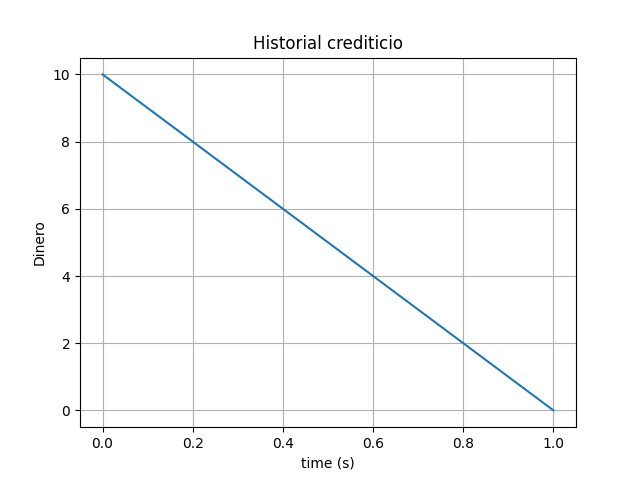
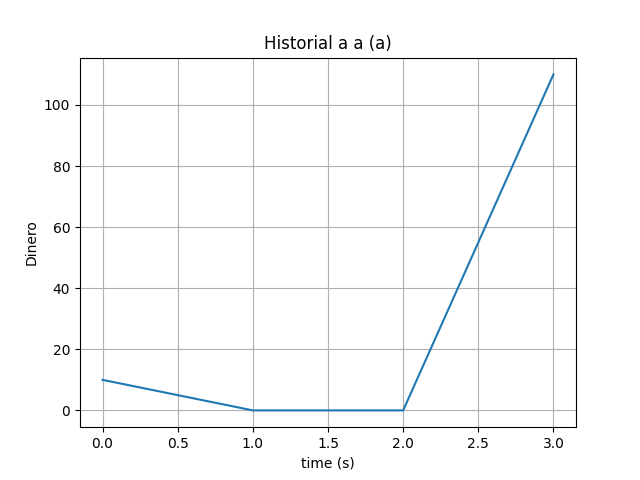
actualizado

diff --git a/menu.py b/menu.py
@@ -311,9 +311,25 @@ class Ui_MainWindow(object):
         self.verticalLayout_5.addWidget(self.label)
         self.stackedWidget.addWidget(self.page_dos)
 
+        self.page_tres = QtWidgets.QWidget()
+        self.page_tres.setObjectName("page_tres")
+        self.verticalLayout_6 = QtWidgets.QVBoxLayout(self.page_tres)
+        self.verticalLayout_6.setObjectName("verticalLayout_6")
+
+        self.label = QtWidgets.QLabel(self.page_tres)
+        self.label.setText("")
+        self.label.setPixmap(QtGui.QPixmap('Imagenes/hist_bal.png'))
+        self.label.setScaledContents(False)
+        self.label.setAlignment(QtCore.Qt.AlignCenter)
+        self.label.setIndent(0)
+        self.label.setObjectName("label")
+        self.verticalLayout_6.addWidget(self.label)
+        self.stackedWidget.addWidget(self.page_tres)
+
         self.pushButton_4 = QtWidgets.QPushButton(self.page_dos)
         self.pushButton_4.setStyleSheet("background-color: rgb(0, 220, 0);\n"
                                         "font: 87 36pt \"Arial Black\";")
+
         self.pushButton_4.setObjectName("pushButton_4")
         self.verticalLayout_5.addWidget(self.pushButton_4)
         self.stackedWidget.addWidget(self.page_dos)
@@ -325,7 +341,7 @@ class Ui_MainWindow(object):
 
         self.pushButton_3 = QtWidgets.QPushButton(self.page_tres)
         self.pushButton_3.setStyleSheet("background-color: rgb(255, 255, 0);\n"
-                                        "font: 87 36pt \"Arial Black\";")
+                                         "font: 87 36pt \"Arial Black\";")
 
         self.pushButton_3.setObjectName("pushButton_3")
         self.verticalLayout_6.addWidget(self.pushButton_3)
@@ -339,6 +355,7 @@ class Ui_MainWindow(object):
         self.pushButton_2 = QtWidgets.QPushButton(self.page_cuatro)
         self.pushButton_2.setStyleSheet("background-color: rgb(85, 255, 0);\n"
                                         "font: 87 36pt \"Arial Black\";")
+
         self.pushButton_2.setObjectName("pushButton_2")
         self.verticalLayout_7.addWidget(self.pushButton_2)
         self.stackedWidget.addWidget(self.page_cuatro)
@@ -350,6 +367,7 @@ class Ui_MainWindow(object):
         self.pushButton = QtWidgets.QPushButton(self.page_cinco)
         self.pushButton.setStyleSheet("background-color: rgb(0, 170, 255);\n"
                                       "font: 87 36pt \"Arial Black\";")
+
         self.pushButton.setObjectName("pushButton")
         self.verticalLayout_8.addWidget(self.pushButton)
         self.stackedWidget.addWidget(self.page_cinco)
@@ -373,7 +391,7 @@ class Ui_MainWindow(object):
         self.label_2.setText(_translate("MainWindow", "  Casino "))
         self.pushButton_5.setText(_translate("MainWindow", "JUGAR"))
         self.pushButton_4.setText(_translate("MainWindow", "JUGAR"))
-        self.pushButton_3.setText(_translate("MainWindow", "PERFIL"))
+        self.pushButton_3.setText(_translate("MainWindow", "INGRESAR +10"))
 
 
 

diff --git a/Grafica_balance.py b/Grafica_balance.py
@@ -2,12 +2,9 @@ import matplotlib.pyplot as plt
 import sqlite3
 
 
-# Este fichero se encarga de temas relacionados con el historial monetario
-
-# Creamos la clase que va a almacenar funciones y poder llamarlas desde otros ficheros
 class Grafica_balance:
 
-    # graficar_balance se ocupa de graficar un matplotlib a partir de un DNI
+    # graficarbalance se ocupa de graficar un matplotlib a partir de un DNI
     @staticmethod
     def graficar_balance(dni):
         # Coge la base de datos
@@ -28,18 +25,21 @@ class Grafica_balance:
         fig, ax = plt.subplots()
         ax.plot(lista_aux, a)
 
+        conn = sqlite3.connect('usuarios.db')
+        cursor = conn.cursor()
+        cursor.execute('SELECT nombre, apellidos FROM usuarios WHERE dni = ?', (dni,))
+        nombre, apellidos = cursor.fetchone()
+        conn.close()
+
         # Títulos y demás cosas
         ax.set(xlabel='time (s)', ylabel='Dinero',
-               title='Historial crediticio')
+               title=f'Historial {nombre} {apellidos} ({dni})')
         ax.grid()
 
         # Guarda la imagen para que se pueda utilizar luego
         plt.savefig('Imagenes/hist_bal.png')
-        plt.show()
-
-    # Esta función se encarga de meter datos en la bd para que se puedan usar
+        #plt.show()
 
 
 if __name__ == '__main__':
-    Grafica_balance.graficar_balance("8")
-
+    Grafica_balance.graficar_balance('12345678Z')

diff --git a/menu_casino.py b/menu_casino.py
@@ -44,6 +44,7 @@ class MiApp(QtWidgets.QMainWindow):
         # Conectar botones de juego
         self.ui.pushButton_5.clicked.connect(self.accion_jugar_tragaperras)
         self.ui.pushButton_4.clicked.connect(self.accion_jugar_blackjack)
+        self.ui.pushButton_3.clicked.connect(self.ingresar_dinero)
 
         self.tragaperras = None  # Inicializa la instancia de Tragaperras
         self.blackjack = None
@@ -90,6 +91,9 @@ class MiApp(QtWidgets.QMainWindow):
         except pygame.error:
             self.blackjack = Blackjack(self.jugador)
             self.blackjack.inicio_blackjack()
+
+    def ingresar_dinero(self):
+        self.jugador.balance += 10
 
     def resizeEvent(self, event):
         rect = self.rect()

diff --git a/usuario.py b/usuario.py
@@ -1,7 +1,7 @@
 import sqlite3
 from hashlib import sha256
 import time
-
+from Grafica_balance import Grafica_balance
 
 class Usuario:
     """
@@ -215,6 +215,8 @@ class Usuario:
             print("Capital actualizado correctamente.")
         except Exception as e:
             print("Error al actualizar el capital:", e)
+        else:
+            Grafica_balance.graficar_balance(dni)
         finally:
             conn.close()
 
